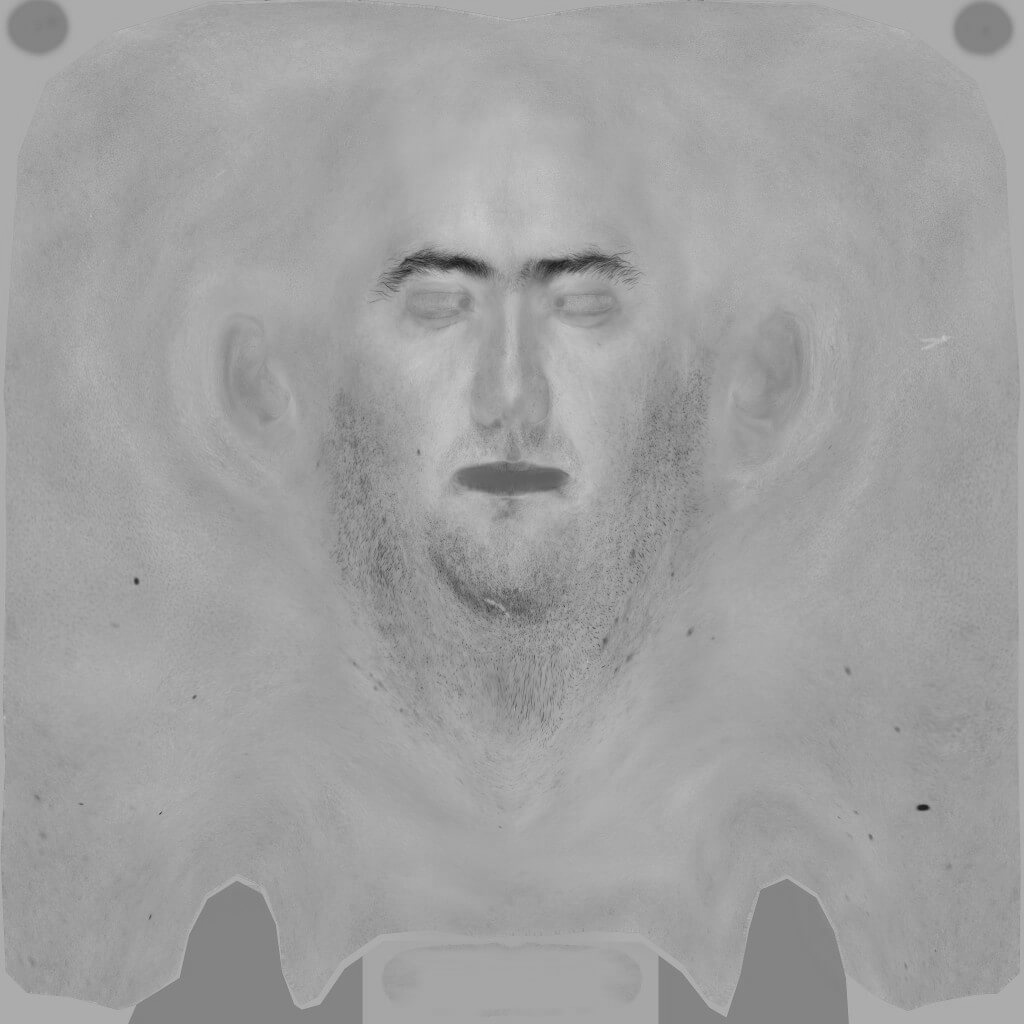
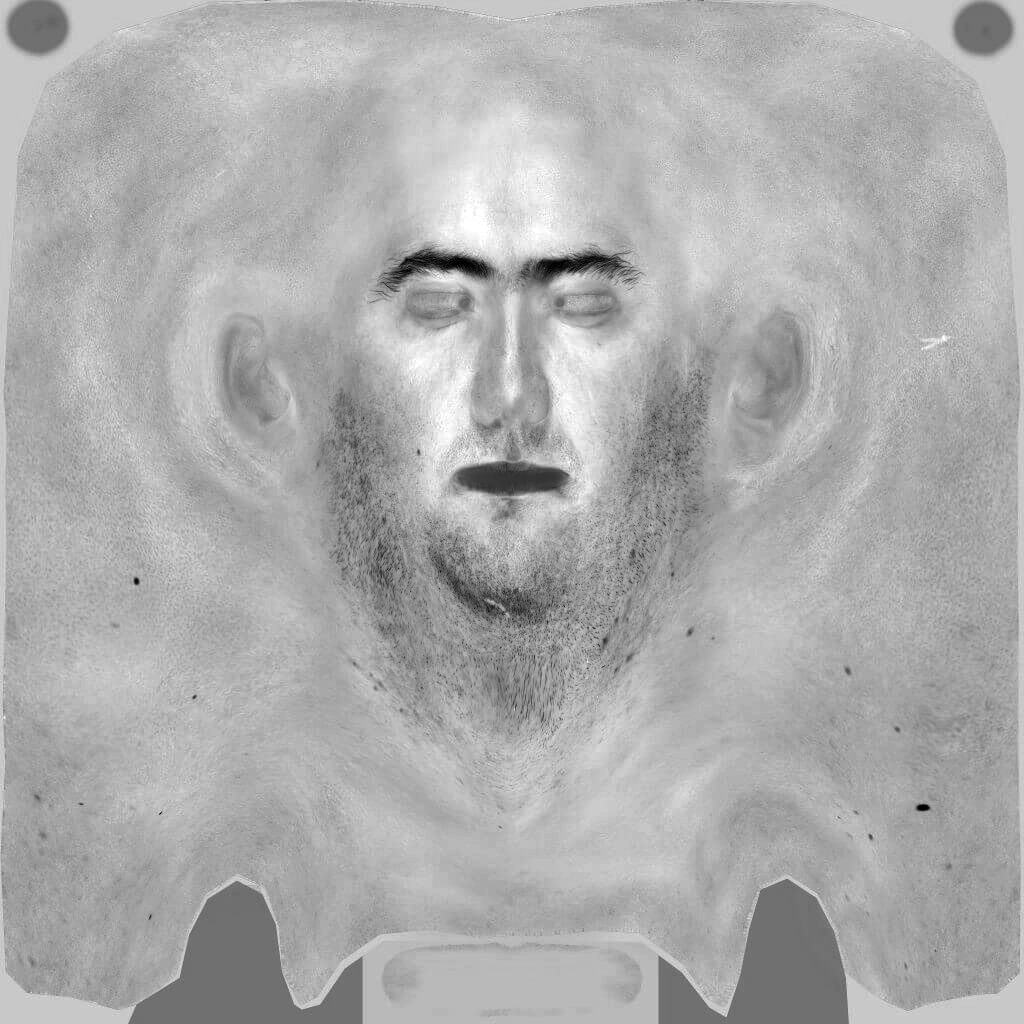
#438 specularMapPower 텍스쳐로 옮김

diff --git a/src/Shader.js b/src/Shader.js
@@ -565,7 +565,7 @@ var Shader = (function () {
                                 '   gl_FragColor = diffuse *light * ambientColor * ambientColor[3] + specular * specColor ;\n' +
                                 '}\n' +
                                 'if( useSpecularMap ){\n' +
-                                '   gl_FragColor *= texture2D( uSpecularSampler, vUV ) * uSpecularMapPower;\n'+
+                                '   gl_FragColor *= sqrt(gl_FragColor * texture2D( uSpecularSampler, vUV ) +uSpecularMapPower);\n'+
                                 '}\n' +
                                 'gl_FragColor.a = alpha;'
                             ]
